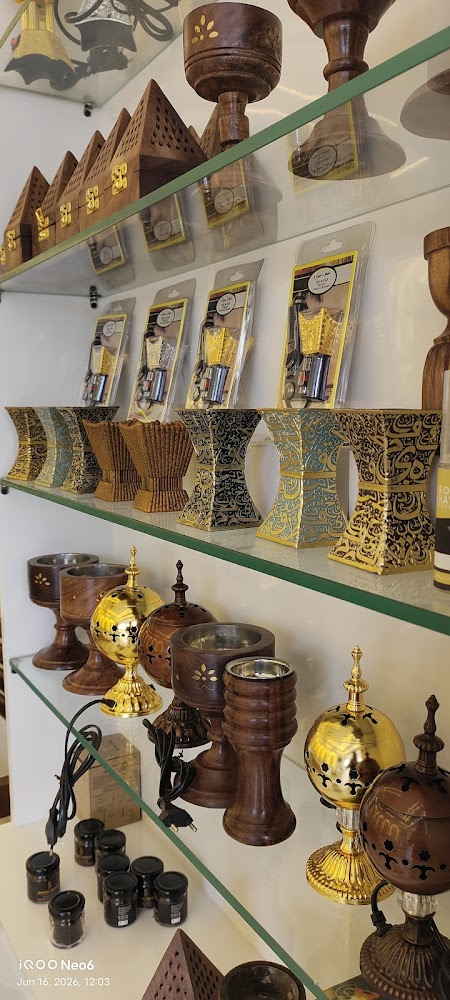
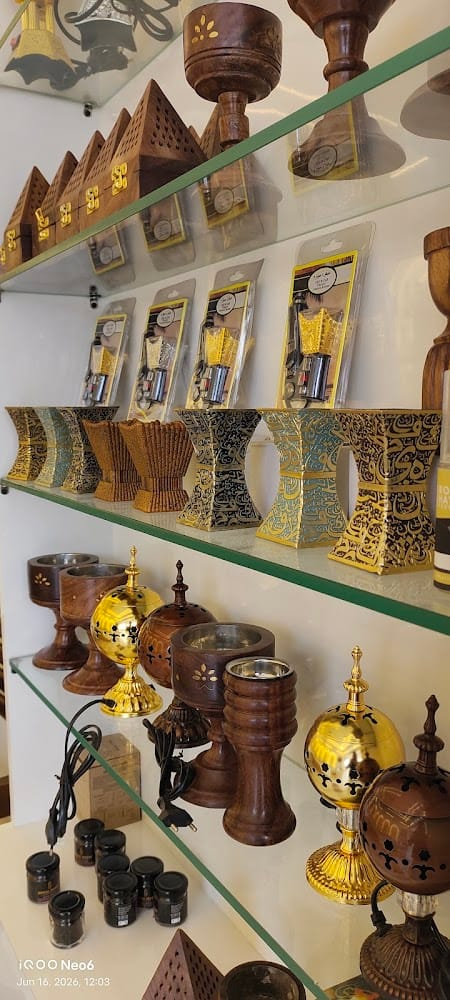
compress images to fix slow page load
- re-encode photos mislabeled as PNG (floral, oud, rhero, bg2, bg3,
  shop1) as proper mozjpeg JPEGs; fix og:image and schema refs
- downsize the 7200x10800 logo to the ~900px it's actually displayed at
- recompress remaining JPEGs (gallery, musk, oriental, shop2) at
  quality 80
- assets folder: 15MB -> 1.6MB, no visible quality loss

diff --git a/index.html b/index.html
@@ -15,7 +15,7 @@
   <meta property="og:site_name" content="Royal Hayat Perfumes">
   <meta property="og:description" content="Premium fragrances inspired by international scents, plus customised perfumes blended in-store. Visit us in Municipal Shopping complex, Mangattukavala, Thodupuzha 685585.">
   <meta property="og:url" content="https://royalhayatperfumes.com/">
-  <meta property="og:image" content="https://royalhayatperfumes.com/assets/rhero.png">
+  <meta property="og:image" content="https://royalhayatperfumes.com/assets/rhero.jpg">
   <meta name="twitter:card" content="summary_large_image">
 
   <!-- Local business schema -->
@@ -28,7 +28,7 @@
     "telephone": "+918111877768",
     "email": "info@royalhayatperfumes.com",
     "hasMap": "https://maps.app.goo.gl/4UoX64wpJR5PDHLN6",
-    "image": "https://royalhayatperfumes.com/assets/shop1.png",
+    "image": "https://royalhayatperfumes.com/assets/shop1.jpg",
     "address": {
       "@type": "PostalAddress",
       "streetAddress": "Municipal Shopping complex Mangattukavala",
@@ -359,9 +359,9 @@
       <!-- visit the boutique — real storefront -->
       <aside class="store-cta reveal" aria-label="Visit our store">
         <figure class="store-cta__media" data-parallax>
-          <img src="assets/shop1.png"
+          <img src="assets/shop1.jpg"
                alt="Royal Hayat Perfumes storefront in Thodupuzha at night, with the golden sign glowing above the entrance"
-               width="1013" height="1547" loading="lazy">
+               width="1022" height="1538" loading="lazy">
         </figure>
         <div class="store-cta__text">
           <p class="store-cta__kicker">Visit our store</p>
@@ -375,7 +375,7 @@
       </aside>
     </section>
 
-    <!-- ============ IMAGE INTERLUDE — add assets/bg2.png to activate ============ -->
+    <!-- ============ IMAGE INTERLUDE — background: assets/bg2.jpg ============ -->
     <section class="interlude" aria-label="Royal Hayat Perfumes">
       <p class="interlude__line reveal">Fragrances that speak <em>elegance.</em></p>
     </section>

diff --git a/css/styles.css b/css/styles.css
@@ -469,7 +469,7 @@ body.nav-open .site-nav li:nth-child(6) a { transition-delay: 0.62s; }
   justify-content: flex-end;
   align-items: center;
   padding: 0 var(--gutter) clamp(5.5rem, 12vh, 8rem);
-  background: url("../assets/rhero.png") 46.5% center / cover no-repeat #16120e;
+  background: url("../assets/rhero.jpg") 46.5% center / cover no-repeat #16120e;
 }
 /* top scrim — keeps the header legible over the photo */
 .hero::before {
@@ -859,7 +859,7 @@ body.nav-open .site-nav li:nth-child(6) a { transition-delay: 0.62s; }
 
 /* ============================================================
    IMAGE INTERLUDE — full-bleed photo band, same idea as the
-   hero. Drop assets/bg2.png into the assets folder to fill it.
+   hero. Background: assets/bg2.jpg
    ============================================================ */
 .interlude {
   margin-top: var(--section-gap);
@@ -870,7 +870,7 @@ body.nav-open .site-nav li:nth-child(6) a { transition-delay: 0.62s; }
   text-align: center;
   background:
     linear-gradient(rgba(22, 16, 9, 0.42), rgba(22, 16, 9, 0.42)),
-    url("../assets/bg2.png") center / cover no-repeat,
+    url("../assets/bg2.jpg") center / cover no-repeat,
     #1c1610;
 }
 .interlude__line {
@@ -923,7 +923,7 @@ body.nav-open .site-nav li:nth-child(6) a { transition-delay: 0.62s; }
 }
 
 /* ============================================================
-   REVIEWS — full-bleed photo band (assets/bg2.png), review
+   REVIEWS — full-bleed photo band (assets/bg3.jpg), review
    cards float on top like panels on the counter
    ============================================================ */
 .reviews {
@@ -931,7 +931,7 @@ body.nav-open .site-nav li:nth-child(6) a { transition-delay: 0.62s; }
   padding: clamp(4rem, 10vw, 7rem) 0;
   background:
     linear-gradient(rgba(22, 16, 9, 0.6), rgba(22, 16, 9, 0.6)),
-    url("../assets/bg3.png") center / cover no-repeat,
+    url("../assets/bg3.jpg") center / cover no-repeat,
     #1c1610;
 }
 .reviews .section-head { margin-bottom: clamp(2.4rem, 6vw, 3.5rem); }
